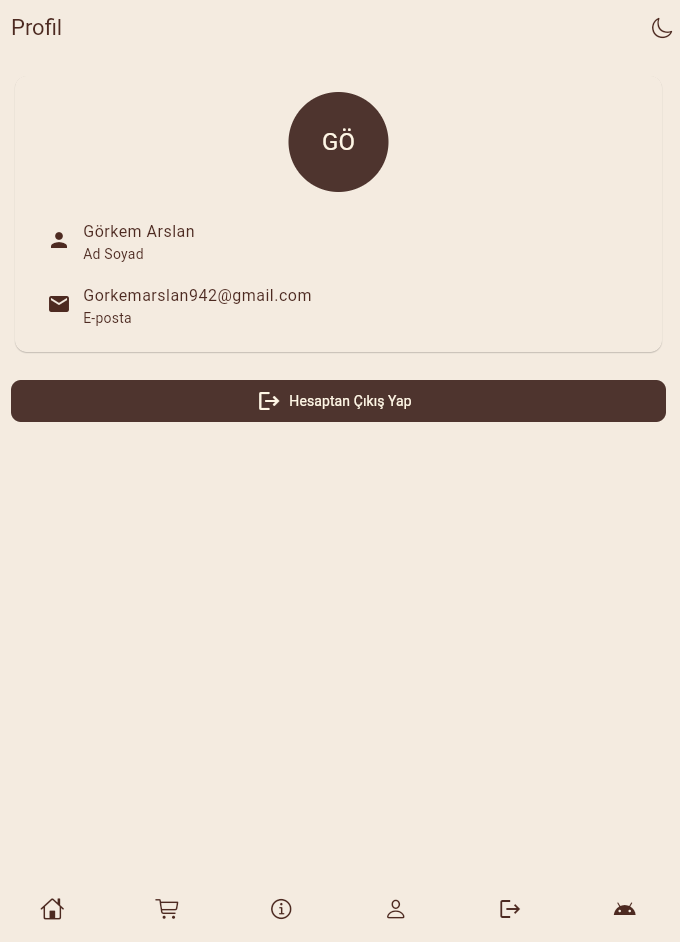
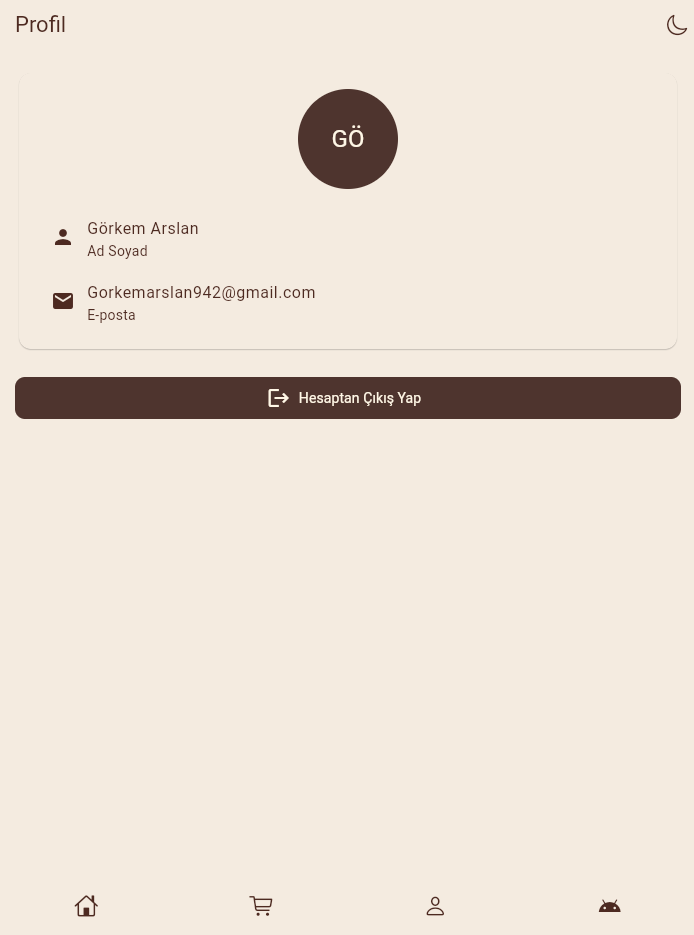
son düzenlemeler yapıldı ve drawer eklendi

diff --git a/lib/screens/home_screen.dart b/lib/screens/home_screen.dart
@@ -1,7 +1,9 @@
 import 'package:flutter/material.dart';
 import 'package:flutter_app/widgets/bottom_menu.dart';
 import 'package:flutter_app/core/themes.dart';
+import 'package:go_router/go_router.dart';
 import 'package:provider/provider.dart';
+import 'package:flutter/cupertino.dart';
 
 class HomeScreen extends StatelessWidget {
   HomeScreen({super.key});
@@ -64,6 +66,39 @@ class HomeScreen extends StatelessWidget {
         centerTitle: true,
       ),
       backgroundColor: colors['surface'],
+      drawer: Drawer(
+        child: ListView(
+          padding: EdgeInsets.zero,
+          children: [
+            UserAccountsDrawerHeader(
+              accountName: const Text('Görkem Arslan'),
+              accountEmail: const Text('gorkemarslan942@gmail.com'),
+              currentAccountPicture: CircleAvatar(
+                backgroundColor: Colors.white,
+                child: Icon(
+                  CupertinoIcons.person,
+                  color: colors['primary'],
+                ),
+              ),
+            ),
+            ListTile(
+              leading: const Icon(CupertinoIcons.info_circle),
+              title: const Text('Hakkında'),
+              onTap: () {
+                context.push("/about");
+              },
+            ),
+            ListTile(
+              leading: const Icon(CupertinoIcons.moon),
+              title: const Text('Gece/Gündüz Teması'),
+              onTap: () {
+                Provider.of<ThemeProvider>(context, listen: false).toggleTheme();
+                Navigator.pop(context); // Drawer'ı kapat
+              },
+            ),
+          ],
+        ),
+      ),
       body: Column(
         children: [
           Expanded(

diff --git a/lib/widgets/bottom_menu.dart b/lib/widgets/bottom_menu.dart
@@ -35,15 +35,6 @@ class BottomMenu extends StatelessWidget {
           ),
           IconButton(
             onPressed: () {
-              context.push("/about");
-            },
-            icon: Icon(
-              CupertinoIcons.info_circle,
-              color: colors['onSurface'],
-            ),
-          ),
-          IconButton(
-            onPressed: () {
             context.go("/profile");
             },
             icon: Icon(
@@ -51,15 +42,7 @@ class BottomMenu extends StatelessWidget {
               color: colors['onSurface'],
             ),
           ),
-          IconButton(
-            onPressed: () {
-            context.push("/login");
-            },
-            icon: Icon(
-              Icons.logout,
-              color: colors['onSurface'],
-            ),
-          ),
+
           IconButton(
             onPressed: () {
             context.push("/voice");

diff --git a/lib/screens/profile_screen.dart b/lib/screens/profile_screen.dart
@@ -54,7 +54,7 @@ class ProfileScreen extends StatelessWidget {
           ),
           const SizedBox(height: 24),
           FilledButton.icon(
-            onPressed: () {},
+            onPressed: () => context.go ("/login"),
             icon: const Icon(Icons.logout),
             label: const Text("Hesaptan Çıkış Yap"),
             style: FilledButton.styleFrom(
@@ -64,15 +64,6 @@ class ProfileScreen extends StatelessWidget {
               ),
             ),
           ),
-          if (context.canPop())
-            TextButton.icon(
-              onPressed: () => context.pop(),
-              icon: const Icon(Icons.arrow_back),
-              label: const Text("Geri Dön"),
-              style: TextButton.styleFrom(
-                minimumSize: const Size(double.infinity, 50),
-              ),
-            ),
         ],
       ),
       bottomNavigationBar: const BottomMenu(),

diff --git a/README.md b/README.md
@@ -127,6 +127,7 @@ lib/
 ![](assets/images/UygulamaEkranları/AboutScreen.png)
 ![](assets/images/UygulamaEkranları/Profile.screen.png)
 ![](assets/images/UygulamaEkranları/VoiceScreen.png)
+![](assets/images/UygulamaEkranları/Drawer.png)
 
   
 
